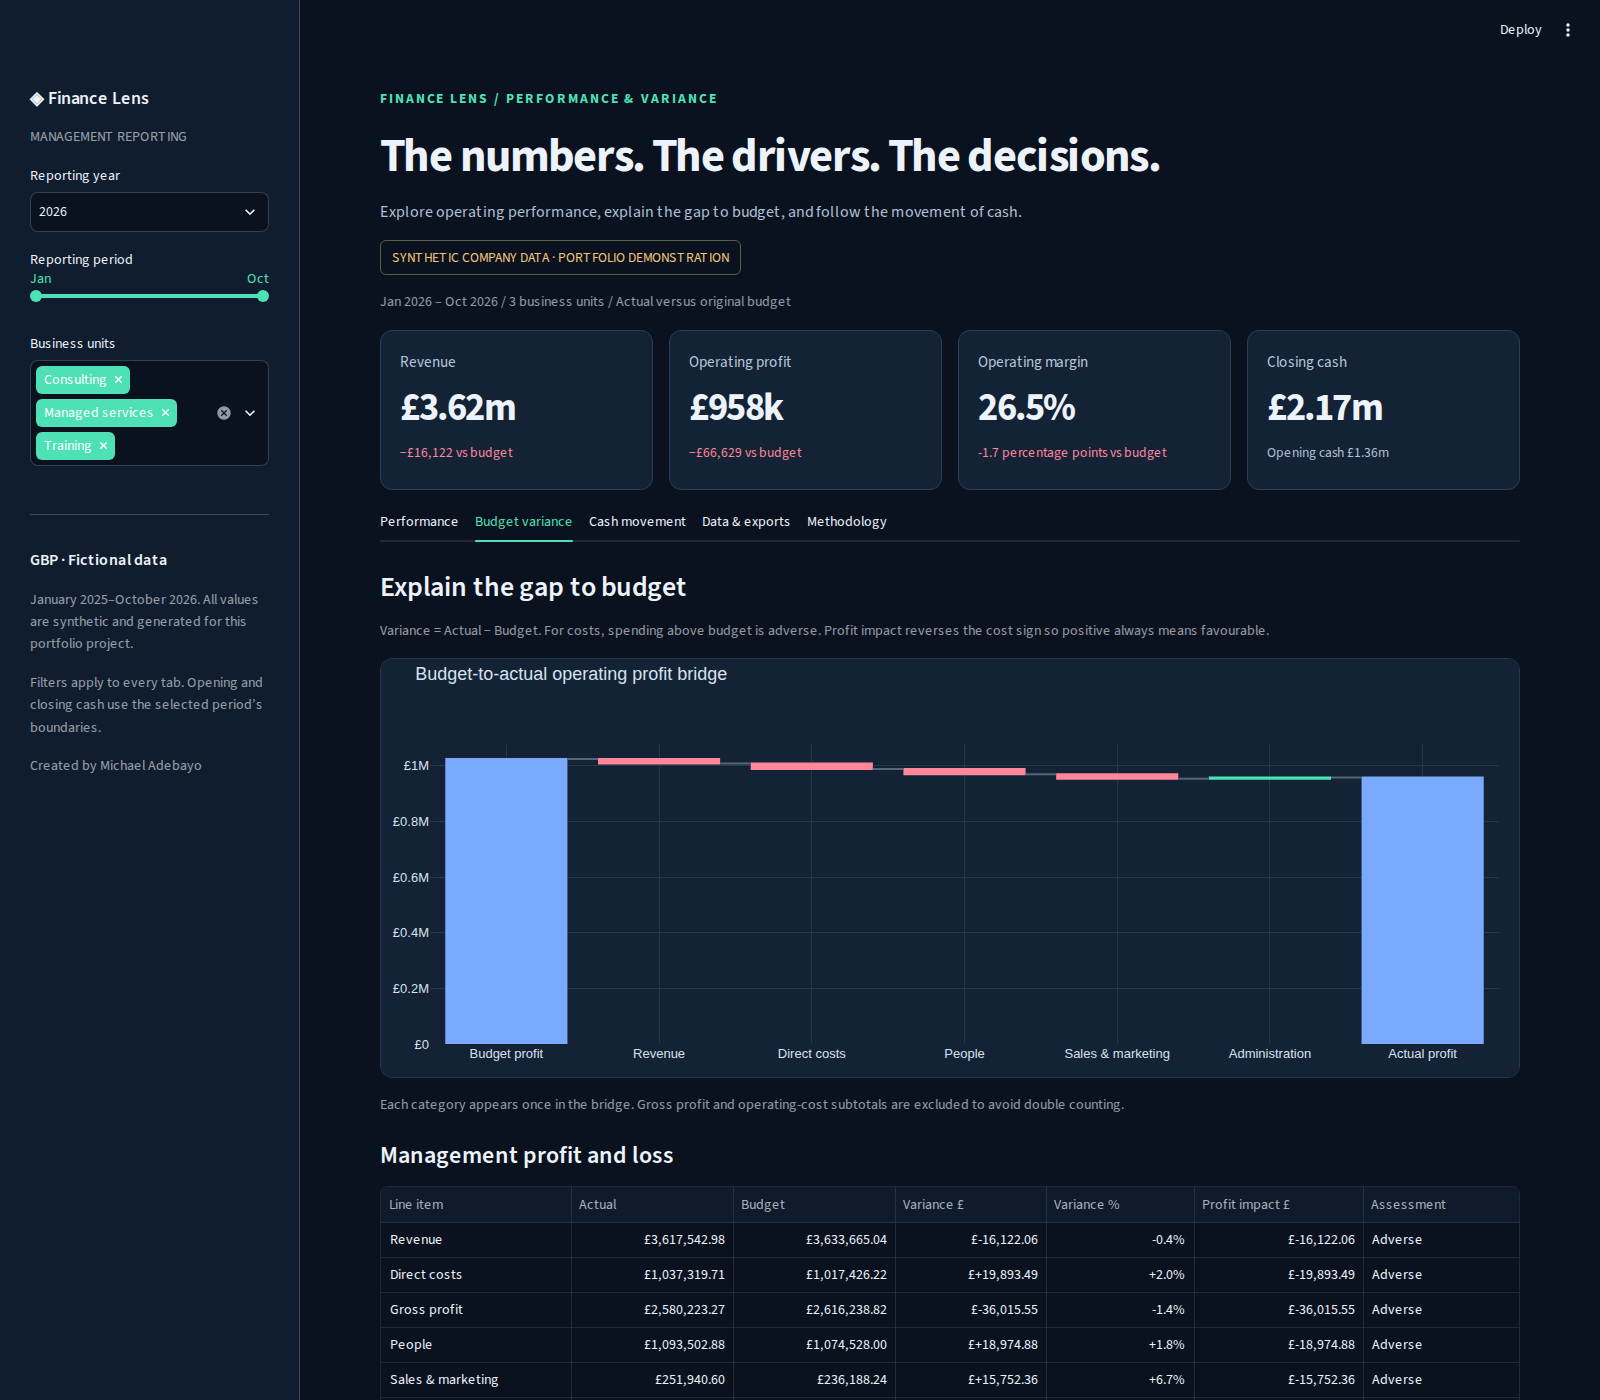
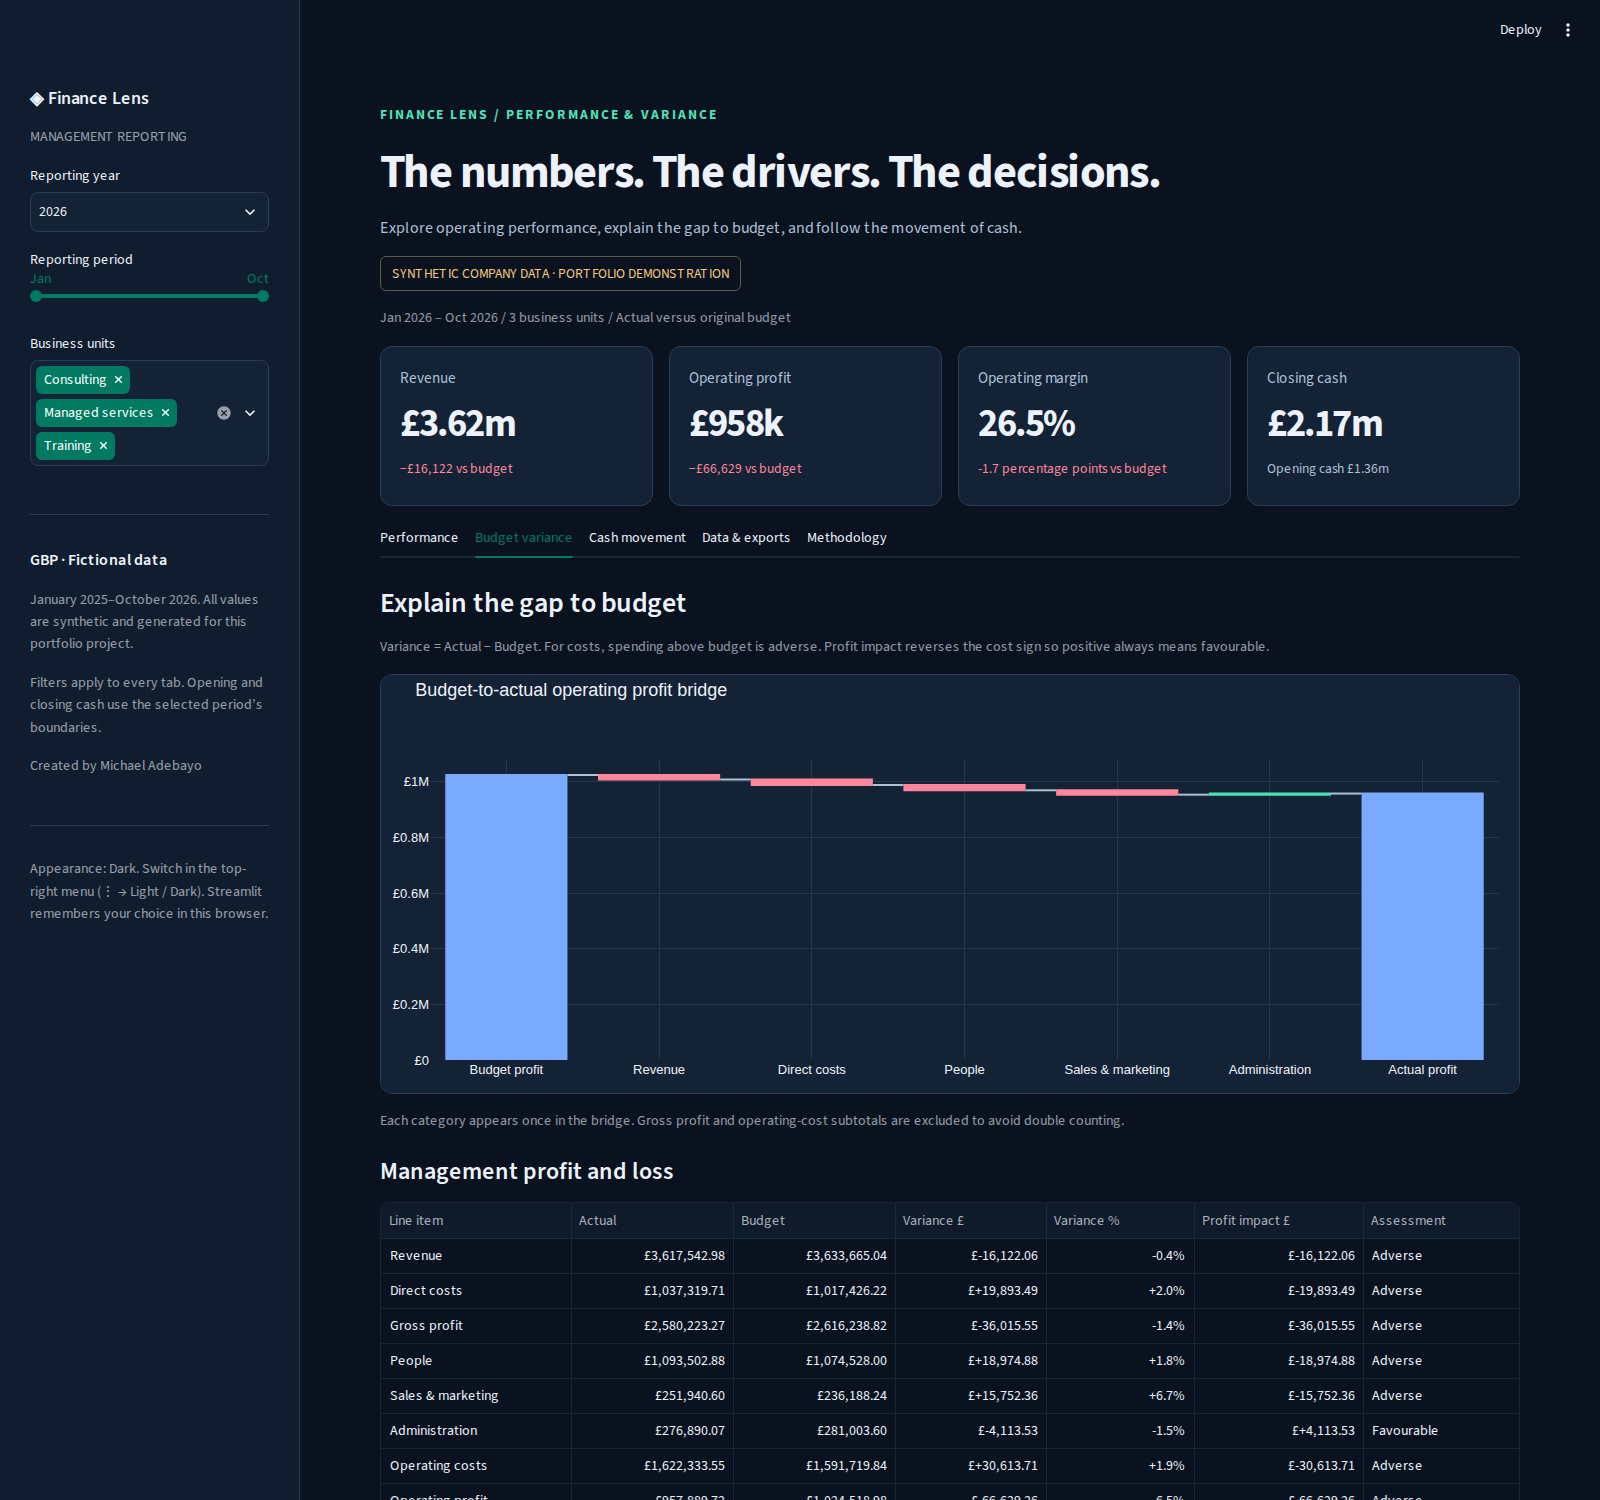
Add native light and dark themes with verified financial export parity

diff --git a/app.py b/app.py
@@ -6,29 +6,46 @@ import plotly.express as px
 import plotly.graph_objects as go
 import streamlit as st
 from finance import load_data, pnl, monthly_summary, profit_bridge, cash_summary, percent, CATEGORIES
+from themes import PALETTES
 
 BASE = Path(__file__).resolve().parent
-TEAL, BLUE, GOLD, RED = "#4EE1B5", "#79AAFF", "#F3C577", "#FF879A"
 st.set_page_config(page_title="Finance Lens | Performance & Variance", page_icon="◈", layout="wide")
+# Native appearance changes trigger a rerun and stay local to the viewer.
+# No process-wide theme mutation: concurrent viewers can use different modes.
+mode = st.context.theme.type or "dark"
+
+
+@st.fragment(run_every="1s")
+def sync_appearance():
+    """Native theme changes update context on the next fragment request."""
+    if (st.context.theme.type or "dark") != mode:
+        st.rerun()
+
+
+sync_appearance()
+palette = PALETTES[mode]
+TEAL, BLUE, GOLD, RED = (palette[key] for key in ("teal", "blue", "gold", "red"))
+css_variables = ";".join(f"--finance-{key.replace('_', '-')}: {value}" for key, value in palette.items() if key != "template")
+st.markdown("<style>:root {" + css_variables + "}</style>", unsafe_allow_html=True)
 st.markdown('''<style>
-.stApp {background:#0A1220;color:#EDF3FA;}
+.stApp {background:var(--finance-background);color:var(--finance-text);}
 .block-container {max-width:1600px;padding-top:4.5rem;}
-[data-testid="stSidebar"] {background:#101D2E;border-right:1px solid #26374D;}
+[data-testid="stSidebar"] {background:var(--finance-sidebar);border-right:1px solid var(--finance-border);}
 h1,h2,h3 {letter-spacing:-.035em;}
 h1 {font-size:clamp(2rem,3vw,2.9rem)!important;line-height:1.14!important;}
-.eyebrow {color:#4EE1B5;font-size:.85rem;letter-spacing:.14em;font-weight:700;}
-.intro {color:#AFC0D5;font-size:1.05rem;max-width:850px;line-height:1.6;}
-.demo {display:inline-block;padding:.35rem .7rem;border:1px solid #566044;border-radius:6px;color:#F3C577;font-size:.85rem;}
-.metric-card {padding:1.2rem;background:#142236;border:1px solid #2B3D54;border-radius:12px;min-height:160px;margin-bottom:.8rem;}
-.metric-label {color:#B8C8DA;font-size:.95rem;}
+.eyebrow {color:var(--finance-teal);font-size:.85rem;letter-spacing:.14em;font-weight:700;}
+.intro {color:var(--finance-muted);font-size:1.05rem;max-width:850px;line-height:1.6;}
+.demo {display:inline-block;padding:.35rem .7rem;border:1px solid var(--finance-demo-border);border-radius:6px;color:var(--finance-gold);font-size:.85rem;}
+.metric-card {padding:1.2rem;background:var(--finance-surface);border:1px solid var(--finance-border);border-radius:12px;min-height:160px;margin-bottom:.8rem;}
+.metric-label {color:var(--finance-muted);font-size:.95rem;}
 .metric-value {font-size:clamp(1.65rem,2.4vw,2.5rem);font-weight:700;letter-spacing:-.04em;margin:.2rem 0;}
-.metric-detail {font-size:.85rem;line-height:1.5;color:#AFC0D5;}
-.good {color:#4EE1B5;} .bad {color:#FF879A;}
-.insight {padding:1rem 1.2rem;border-left:3px solid #4EE1B5;background:#12283A;border-radius:5px;line-height:1.7;margin-bottom:1rem;}
-[data-testid="stPlotlyChart"] {border:1px solid #26374D;border-radius:12px;overflow:hidden;}
-[data-testid="stDownloadButton"] button {background:#4EE1B5;color:#071921;border:0;font-weight:650;}
-[data-testid="stDownloadButton"] button p {color:#071921;}
-[data-testid="stDownloadButton"] button:focus-visible {outline:3px solid #F3C577;outline-offset:3px;}
+.metric-detail {font-size:.85rem;line-height:1.5;color:var(--finance-muted);}
+.good {color:var(--finance-teal);} .bad {color:var(--finance-red);}
+.insight {padding:1rem 1.2rem;border-left:3px solid var(--finance-teal);background:var(--finance-insight);border-radius:5px;line-height:1.7;margin-bottom:1rem;}
+[data-testid="stPlotlyChart"] {border:1px solid var(--finance-border);border-radius:12px;overflow:hidden;}
+[data-testid="stDownloadButton"] button {background:var(--finance-teal);color:var(--finance-button-text);border:0;font-weight:650;}
+[data-testid="stDownloadButton"] button p {color:var(--finance-button-text);}
+[data-testid="stDownloadButton"] button:focus-visible {outline:3px solid var(--finance-gold);outline-offset:3px;}
 [data-testid="stTabs"] [role="tab"] {font-size:.95rem;}
 @media(max-width:700px) {.block-container {padding:4rem 1rem 1rem;} .metric-card {min-height:130px;}}
 </style>''', unsafe_allow_html=True)
@@ -50,12 +67,12 @@ def money(value, compact=False):
 
 
 def chart(fig, height=360):
-    fig.update_layout(template="plotly_dark", height=height, paper_bgcolor="#142236", plot_bgcolor="#142236",
-                      font=dict(color="#D6E1EE", size=13), margin=dict(l=20, r=22, t=85, b=35),
+    fig.update_layout(template=palette["template"], height=height, paper_bgcolor=palette["surface"], plot_bgcolor=palette["surface"],
+                      font=dict(color=palette["text"], size=13), margin=dict(l=20, r=22, t=85, b=35),
                       title=dict(x=.03, y=.98, xanchor="left", yanchor="top"),
                       legend=dict(orientation="h", y=1.02, x=0, yanchor="bottom", title_text=""), hovermode="closest")
-    fig.update_xaxes(gridcolor="#26374D", zeroline=False)
-    fig.update_yaxes(gridcolor="#26374D", zeroline=False)
+    fig.update_xaxes(gridcolor=palette["grid"], zeroline=False)
+    fig.update_yaxes(gridcolor=palette["grid"], zeroline=False)
     st.plotly_chart(fig, width="stretch", theme=None)
 
 
@@ -86,6 +103,8 @@ with st.sidebar:
     st.caption("January 2025–October 2026. All values are synthetic and generated for this portfolio project.")
     st.caption("Filters apply to every tab. Opening and closing cash use the selected period’s boundaries.")
     st.caption("Created by Michael Adebayo")
+    st.divider()
+    st.caption(f"Appearance: {mode.title()}. Switch in the top-right menu (⋮ → Light / Dark). Streamlit remembers your choice in this browser.")
 
 st.markdown('<div class="eyebrow">FINANCE LENS / PERFORMANCE & VARIANCE</div>', unsafe_allow_html=True)
 st.title("The numbers. The drivers. The decisions.")
@@ -157,7 +176,7 @@ with variance:
     st.subheader("Explain the gap to budget")
     st.caption("Variance = Actual − Budget. For costs, spending above budget is adverse. Profit impact reverses the cost sign so positive always means favourable.")
     labels, values = profit_bridge(statement)
-    fig = go.Figure(go.Waterfall(x=labels, y=values, measure=["absolute"]+["relative"]*len(CATEGORIES)+["total"], increasing=dict(marker_color=TEAL), decreasing=dict(marker_color=RED), totals=dict(marker_color=BLUE), connector=dict(line=dict(color="#56667C"))))
+    fig = go.Figure(go.Waterfall(x=labels, y=values, measure=["absolute"]+["relative"]*len(CATEGORIES)+["total"], increasing=dict(marker_color=TEAL), decreasing=dict(marker_color=RED), totals=dict(marker_color=BLUE), connector=dict(line=dict(color=palette["muted"]))))
     fig.update_layout(title="Budget-to-actual operating profit bridge", yaxis_tickprefix="£")
     chart(fig, 420)
     st.caption("Each category appears once in the bridge. Gross profit and operating-cost subtotals are excluded to avoid double counting.")

diff --git a/themes.py b/themes.py
@@ -1,0 +1,17 @@
+"""Presentation-only palettes; native widget themes live in config.toml."""
+PALETTES = {
+    "dark": {
+        "background": "#0A1220", "surface": "#142236", "sidebar": "#101D2E",
+        "text": "#EDF3FA", "muted": "#AFC0D5", "border": "#2B3D54",
+        "grid": "#26374D", "insight": "#12283A", "demo_border": "#566044",
+        "teal": "#4EE1B5", "blue": "#79AAFF", "gold": "#F3C577",
+        "red": "#FF879A", "button_text": "#071921", "template": "plotly_dark",
+    },
+    "light": {
+        "background": "#F5F7FB", "surface": "#FFFFFF", "sidebar": "#EAF0F6",
+        "text": "#17243A", "muted": "#52627A", "border": "#CED8E3",
+        "grid": "#E0E7EF", "insight": "#E7F4F0", "demo_border": "#C4AD72",
+        "teal": "#007B62", "blue": "#315FBC", "gold": "#906100",
+        "red": "#B42341", "button_text": "#FFFFFF", "template": "plotly_white",
+    },
+}

diff --git a/README.md b/README.md
@@ -17,6 +17,14 @@ A finance analyst portfolio project by **Michael Adebayo**, combining financial 
 
 The methodology and synthetic-data status stay visible throughout the experience. Sidebar filters apply to all tabs; account/scenario filters in Data & exports affect only its table and download.
 
+## Light and dark appearance
+
+Use the **top-right menu (⋮) → Light / Dark** to change appearance. The sidebar shows the current mode. Native Streamlit theming updates dropdowns, multi-select tags, sliders, data tables and dialogs together; custom KPI cards and Plotly charts follow the same mode. A lightweight session-local fragment detects appearance changes and refreshes custom visuals within about one second while the app is active.
+
+The dark navy design remains the configured base. Streamlit respects the viewer's saved preference or device appearance when System is selected, so a light-mode device can open in light mode. A manual choice is saved in that browser. Theme choice is independent for each viewer and changes presentation only; it does not reset filters or alter calculations/downloads.
+
+Both modes use green for favourable contributions and red for adverse contributions, with signed values and assessment labels alongside colour. Light mode uses darker accents for legibility on pale backgrounds.
+
 ## Screenshots
 
 ![Performance overview](screenshots/performance.png)
@@ -25,7 +33,9 @@ The methodology and synthetic-data status stay visible throughout the experience
 
 ![Cash movement analysis](screenshots/cash-movement.png)
 
-Mobile captures: [performance](screenshots/mobile-performance.png) and [CSV export](screenshots/mobile-export.png).
+Light mode: [performance](screenshots/performance-light.png), [budget variance](screenshots/budget-variance-light.png) and [data table](screenshots/data-light.png).
+
+Mobile captures: [dark performance](screenshots/mobile-performance.png), [dark CSV export](screenshots/mobile-export.png), [light performance](screenshots/mobile-performance-light.png) and [light CSV export](screenshots/mobile-export-light.png).
 
 ## Data and generation
 
@@ -94,6 +104,7 @@ The six financial tests cover the operating profit identity, an independently re
 finance-performance-dashboard/
 ├── app.py
 ├── finance.py
+├── themes.py
 ├── generate_data.py
 ├── requirements.txt
 ├── README.md
@@ -107,13 +118,22 @@ finance-performance-dashboard/
 └── tests/test_finance.py
 ```
 
-Technologies: Python, Streamlit, Pandas, NumPy and Plotly. The native dark theme uses a navy background with mint, blue and warm-gold accents. Direct dependencies are pinned to the versions used for local verification.
+Technologies: Python, Streamlit, Pandas, NumPy and Plotly. Native light and dark themes share green, blue and gold accents, with contrasting foreground colours. `themes.py` defines matching custom-component and chart palettes; `.streamlit/config.toml` defines native controls. Direct dependencies are pinned to the versions used for local verification.
 
-## Deployment preparation
+## GitHub and deployment
 
-The project is prepared for a repository named `finance-performance-dashboard`, branch `main`, entrypoint `app.py`, Python **3.12** and Streamlit Community Cloud. It requires no secrets or database service. All generated data are bundled locally.
+GitHub repository: [michael-adebayo256/finance-performance-dashboard](https://github.com/michael-adebayo256/finance-performance-dashboard). Deployment configuration: branch `main`, entrypoint `app.py`, Python **3.12** and Streamlit Community Cloud. It requires no secrets or database service. All generated data are bundled locally.
 
-Publication status: **local project; no public repository or deployed URL yet**. After owner approval, push the reviewed files to a new GitHub repository, then select that repository, `main` and `app.py` in Community Cloud. Choose Python 3.12 in Advanced settings. Inspect the cloud build/runtime logs and test the returned public app URL before recording deployment as complete. A local browser test does not establish a successful cloud build.
+Public GitHub publication and deployment were approved by the owner. **Public app URL: pending Community Cloud deployment.**
+
+1. Open https://share.streamlit.io/ and select the `michael-adebayo256` workspace.
+2. Choose **Create app** → **Yup, I have an app**.
+3. Choose **Paste GitHub URL** and paste `https://github.com/michael-adebayo256/finance-performance-dashboard/blob/main/app.py`, or enter repository `michael-adebayo256/finance-performance-dashboard`, branch `main`, main file `app.py`.
+4. In **Advanced settings**, choose Python **3.12**. Leave Secrets empty.
+5. Choose an available app subdomain and click **Deploy**.
+6. Inspect the build/runtime logs and test the resulting public URL, filters, theme switch and downloads before marking cloud deployment verified.
+
+[Official Community Cloud deployment instructions](https://docs.streamlit.io/deploy/streamlit-community-cloud/deploy-your-app/deploy). A local browser test does not establish a successful cloud build.
 
 ## Portfolio discussion points
 

diff --git a/VALIDATION.md b/VALIDATION.md
@@ -34,3 +34,20 @@ Executed in headless Chromium against the local app on port 8602:
 ## Limits
 
 This is a targeted smoke test, not exhaustive device/accessibility testing. A fresh dependency installation, Community Cloud build and public deployment have not been tested. No cloud credentials, user data upload or external finance integration is required. The dashboard does not contain real financial data, forecasts, a complete balance sheet or statutory accounts.
+
+## Light and dark themes — 22 November 2026
+
+- Native Streamlit Light/Dark configuration covers controls, dialogs and canvas tables. Session-local palettes cover KPI cards, insights, charts and download buttons.
+- Chromium verified dark chart background/text/series colours and matching light palette.
+- P&L CSV bytes are identical across modes for the same reporting period. A 2025 filter remained selected through a mode change and its CSV bytes stayed identical.
+- The chosen Light preference survived a full reload. A separate browser context retained Dark independently.
+- Both modes passed the 390 × 844 mobile layout/download visibility check. No browser pageerror events or Streamlit exception element were observed in the passing run.
+- Six financial unittests passed again. The financial calculation module and bundled data are unchanged.
+- Representative text/background, accent and button-label pairs in both custom palettes have calculated contrast ratios of at least 4.5:1. This is not a full accessibility certification.
+- Native appearance changes do not themselves rerun all Python content. A one-second `st.fragment` detects a changed session theme and requests one full rerun; the stable mode runs only the lightweight check.
+- Dark remains the configured base; System mode follows the visitor's device preference, and explicit choices are remembered by Streamlit in that browser.
+- Screenshot capture was repeated after waiting for chart/table rendering to settle.
+
+## Publication
+
+The owner approved GitHub publication and deployment. The target repository is `michael-adebayo256/finance-performance-dashboard`, branch `main`, entrypoint `app.py`. Authenticated Community Cloud deployment tools are not available in this session; the signed-in browser deployment step and public-app verification remain pending.
